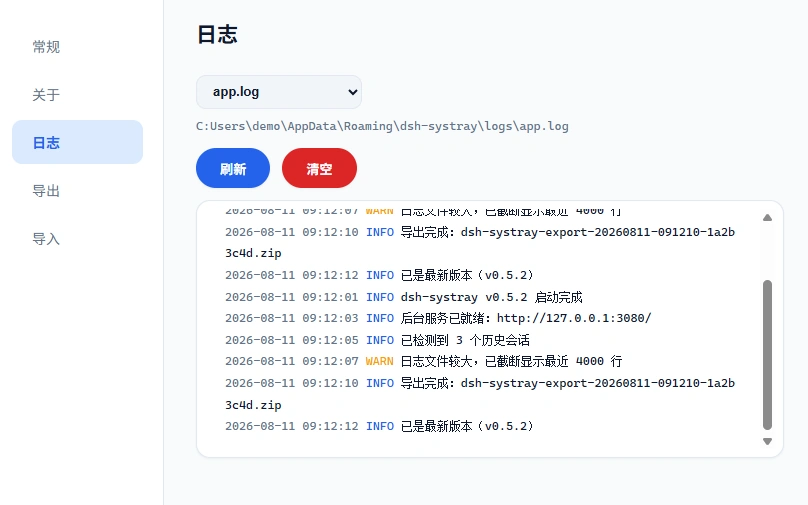
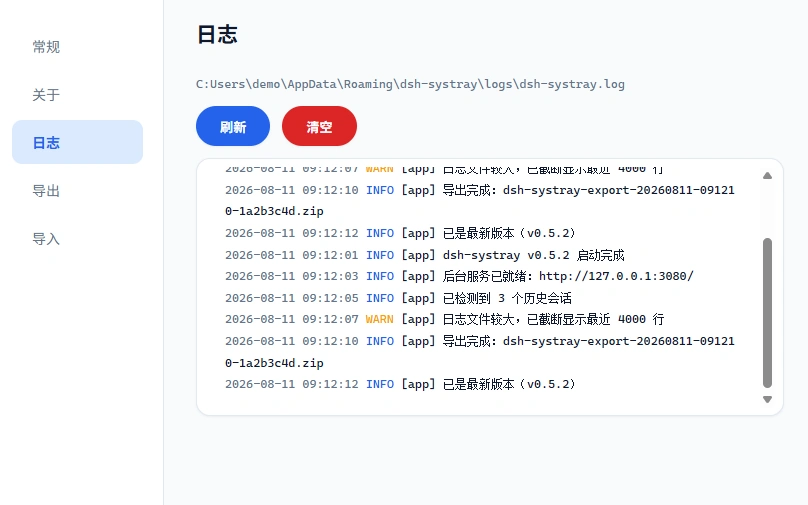
docs: recapture about/logs screenshots for v0.7.0 (unified log page, plugin list), sync build example version and wails CLI

diff --git a/README.md b/README.md
@@ -108,12 +108,12 @@ dsh-systray 是一个 Windows / macOS 系统托盘应用，围绕三个核心特
 
 ## 构建
 
-前置：Go 1.21+、[Wails CLI v2](https://wails.io/docs/gettingstarted/installation)（`go install github.com/wailsapp/wails/v2/cmd/wails@v2.11.0`）、前端静态文件（无需 Node）。
+前置：Go 1.21+、[Wails CLI v2](https://wails.io/docs/gettingstarted/installation)（`go install github.com/wailsapp/wails/v2/cmd/wails@v2.15.0`）、前端静态文件（无需 Node）。
 
 | 平台 | 构建命令 |
 | --- | --- |
-| Windows | `wails build -s -clean -platform windows/amd64 -ldflags "-X main.appVersion=v0.6.0"` |
-| macOS | `wails build -s -clean -platform darwin/universal -ldflags "-X main.appVersion=v0.6.0"` |
+| Windows | `wails build -s -clean -platform windows/amd64 -ldflags "-X main.appVersion=v0.7.0"` |
+| macOS | `wails build -s -clean -platform darwin/universal -ldflags "-X main.appVersion=v0.7.0"` |
 
 > - `-s`：跳过前端构建（直接内嵌 `frontend/dist`）；改动前端后无需其他步骤，直接重新 `wails build`
 > - `-X main.appVersion=` 注入当前版本号，供自动更新对比使用（GitHub Actions 打 tag 发布时自动注入；本地开发可省略，此时为 `dev`，跳过更新检查）
